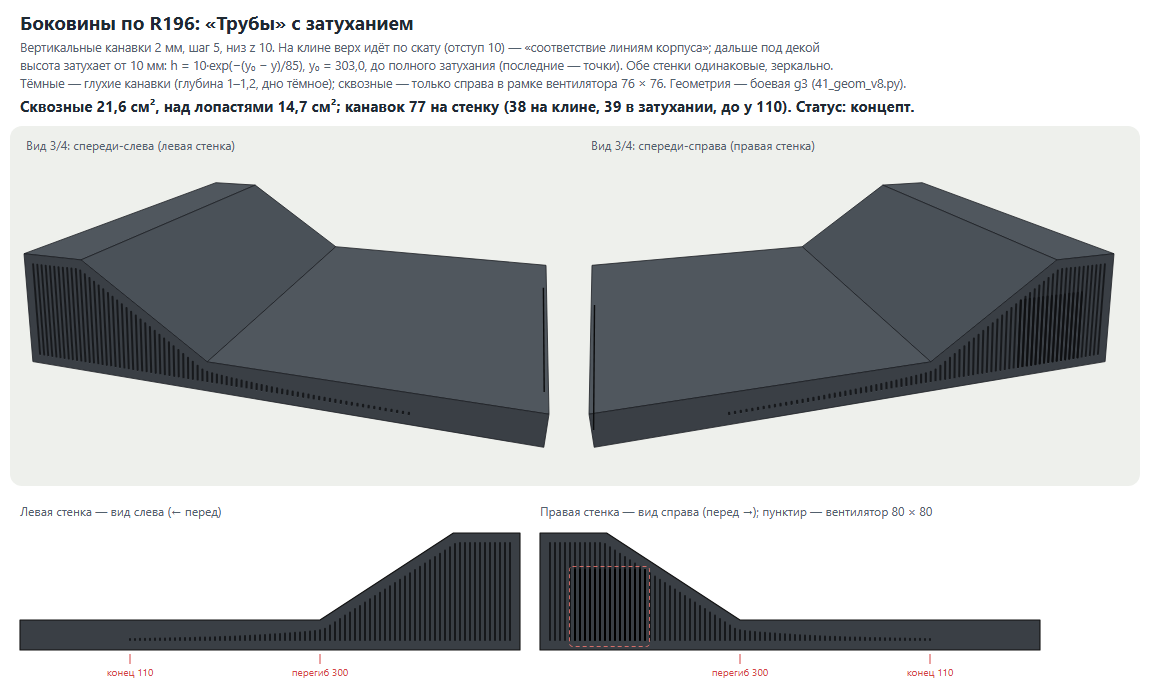
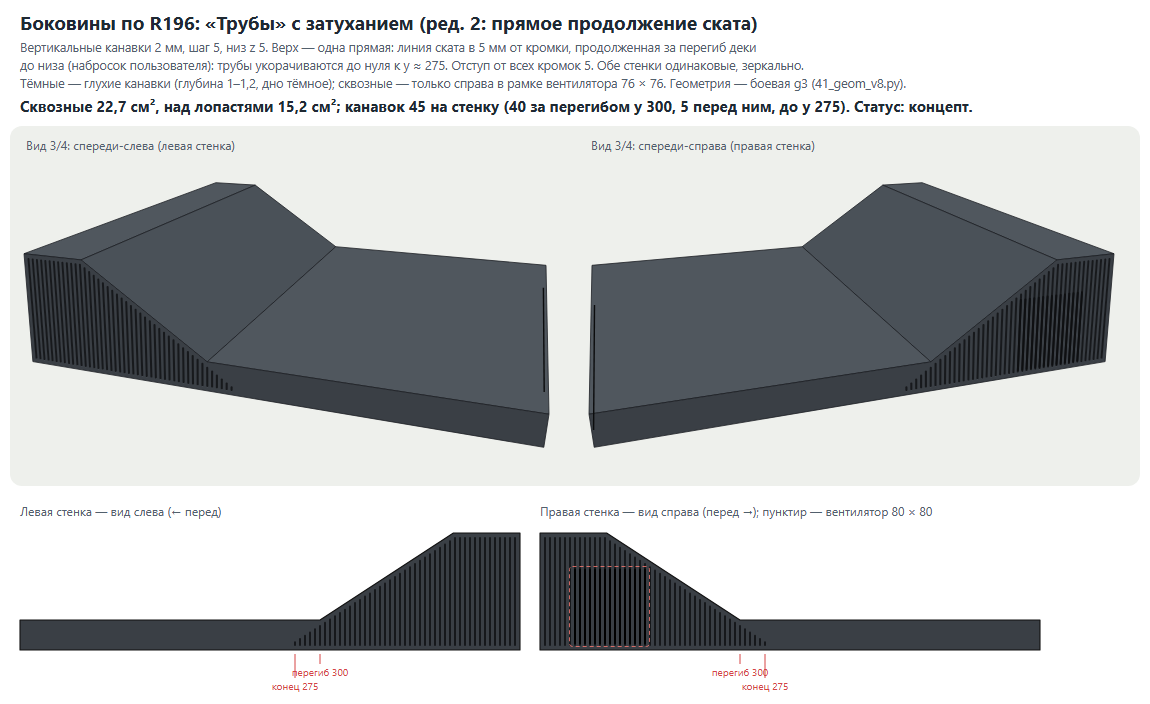
Doc 41 section 24.13 rev 2: pipe tops on one straight line continuing the slope to the bottom (user's sketch), 45 grooves, 22.7 cm2 through

diff --git a/docs/ru/img/41_sides_r196.py b/docs/ru/img/41_sides_r196.py
@@ -2,10 +2,9 @@
 """Doc 41 section 24.13: side walls by R196 (user, 20.11.2026): "Pipes, but with decay. That is, following the case lines,
 but continuing until full decay" = hybrid of K2 "Pipes" and K3 "Release" (24.12).
 
-Rule: vertical grooves 2 mm wide, pitch 5, bottoms on z 10 (inset 10 from the bottom edge).
-  - behind the deck fold (wedge): top = the slope edge inset 10 (K2: the bars follow the case lines), up to the crest inset;
-  - in front of the point where the inset slope meets the deck inset (z 20), the bars continue forward under the deck and their
-    height decays exponentially from 10 mm, h = 10 * exp(-(y_k - y) / TAU), until h < H_MIN (full decay: the last ones are dots).
+Rule (rev. 2, user's sketch on rev. 1, 20.11.2026: the slope line continued straight down to the bottom): vertical grooves
+2 mm wide, pitch 5, bottoms on z 5; tops on ONE straight line = the slope edge shifted 5 mm inward, continued past the deck fold
+until it meets the bottom margin, so the pipes shorten linearly to zero ("full decay"); 5 mm margin from all edges.
 Both walls identical (mirror); blind grooves 1-1.2 mm deep with a dark bottom; through-cuts only on the RIGHT wall inside the fan
 frame 76 x 76. Geometry: 41_geom_v8.py (production g3.build(30, 0, 117, 20, 0)).
 Views: top - 3/4 perspective (left wall from front-left, right wall from front-right); bottom - elevations: LEFT wall seen from
@@ -17,25 +16,25 @@ import importlib.util as _iu
 _s = _iu.spec_from_file_location("g41", os.path.join(HERE, "41_geom_v8.py")); G = _iu.module_from_spec(_s); _s.loader.exec_module(G)
 V2 = G.load("41_sides_v2")
 
-INS, PITCH, TAU, H_MIN = 10.0, 5.0, 85.0, 1.0
+M, PITCH, H_MIN = 5.0, 5.0, 1.0       # margin from every edge, groove pitch, shortest groove (a dot)
+
+
+def line(y):
+    """the design line: the slope edge shifted 5 mm inward (perpendicular), continued STRAIGHT past the deck fold (user's sketch)"""
+    return G.DECK + (y - G.FOLD_Y) * G.TAN - M / G.COS
 
 
 def y_knee():
-    """where the inset slope edge reaches the deck inset (z 20)"""
-    return G.FOLD_Y + (INS / G.COS - INS) / G.TAN    # 30 + (y - 300) tan - 10/cos = 20
+    """where the design line leaves the slope zone and enters the low deck strip (passes the fold)"""
+    return G.FOLD_Y
 
 
 def bars():
-    yk = y_knee()
-    segs, y = [], G.D - INS
-    while y > INS:
-        if y >= yk:
-            t = V2.top_inset(y)
-        else:
-            h = (G.DECK - 2 * INS) * math.exp(-(yk - y) / TAU)
-            if h < H_MIN: break
-            t = INS + max(h, 0.0)
-        segs.append(((y, INS), (y, t)))
+    segs, y = [], G.D - M
+    while y > M:
+        t = min(line(y), G.CREST - M, G.top(y) - M)
+        if t - M < H_MIN: break
+        segs.append(((y, M), (y, t)))
         y -= PITCH
     return segs
 
@@ -44,8 +43,8 @@ def dims(ox, oy, k, segs, right):
     T = lambda y, z: (ox + ((G.D - y) if right else y) * k, oy + (124 - z) * k)
     el = []
     yk, yend = y_knee(), segs[-1][0][0]
-    for y, lab in ((G.FOLD_Y, "перегиб 300"), (yend, f"конец {yend:.0f}".replace(".", ","))):
-        a, b = T(y, -4), T(y, -14)
+    for y, lab, dz in ((G.FOLD_Y, "перегиб 300", 0), (yend, f"конец {yend:.0f}".replace(".", ","), 14)):
+        a, b = T(y, -4), T(y, -14 - dz)
         el.append(f'<line x1="{a[0]:.1f}" y1="{a[1]:.1f}" x2="{b[0]:.1f}" y2="{b[1]:.1f}" stroke="#d64545"/>')
         el.append(f'<text x="{b[0]:.1f}" y="{b[1] + 12:.1f}" font-size="10" fill="#d64545" text-anchor="middle">{lab}</text>')
     return el
@@ -55,14 +54,14 @@ def main():
     segs = bars(); cuts = V2.through(segs); area = V2.measure(cuts)
     yk = y_knee(); yend = segs[-1][0][0]
     n_wedge = sum(1 for (a, b) in segs if a[0] >= yk)
-    print(f"bars {len(segs)} (wedge {n_wedge}, decay {len(segs) - n_wedge}), through {len(cuts)}, area {area}, knee y {yk:.1f}, last bar y {yend:.1f} h {segs[-1][1][1] - INS:.2f}")
+    print(f"bars {len(segs)} (wedge {n_wedge}, decay {len(segs) - n_wedge}), through {len(cuts)}, area {area}, knee y {yk:.1f}, last bar y {yend:.1f} h {segs[-1][1][1] - M:.2f}")
     Wd = 1150
     el = ['<rect width="100%" height="100%" fill="#fff"/>',
-          '<text x="20" y="30" font-size="19" font-weight="700" fill="#1f2933">Боковины по R196: «Трубы» с затуханием</text>',
-          '<text x="20" y="52" font-size="12.5" fill="#52606d">Вертикальные канавки 2 мм, шаг 5, низ z 10. На клине верх идёт по скату (отступ 10) — «соответствие линиям корпуса»; дальше под декой</text>',
-          f'<text x="20" y="70" font-size="12.5" fill="#52606d">высота затухает от 10 мм: h = 10·exp(−(y₀ − y)/{TAU:.0f}), y₀ = {str(round(yk, 1)).replace(".", ",")}, до полного затухания (последние — точки). Обе стенки одинаковые, зеркально.</text>',
+          '<text x="20" y="30" font-size="19" font-weight="700" fill="#1f2933">Боковины по R196: «Трубы» с затуханием (ред. 2: прямое продолжение ската)</text>',
+          '<text x="20" y="52" font-size="12.5" fill="#52606d">Вертикальные канавки 2 мм, шаг 5, низ z 5. Верх — одна прямая: линия ската в 5 мм от кромки, продолженная за перегиб деки</text>',
+          f'<text x="20" y="70" font-size="12.5" fill="#52606d">до низа (набросок пользователя): трубы укорачиваются до нуля к y ≈ {yend:.0f}. Отступ от всех кромок 5. Обе стенки одинаковые, зеркально.</text>',
           '<text x="20" y="88" font-size="12.5" fill="#52606d">Тёмные — глухие канавки (глубина 1–1,2, дно тёмное); сквозные — только справа в рамке вентилятора 76 × 76. Геометрия — боевая g3 (41_geom_v8.py).</text>',
-          f'<text x="20" y="112" font-size="15" font-weight="700" fill="#1f2933">Сквозные {str(area[0]).replace(".", ",")} см², над лопастями {str(area[1]).replace(".", ",")} см²; канавок {len(segs)} на стенку ({n_wedge} на клине, {len(segs) - n_wedge} в затухании, до y {yend:.0f}). Статус: концепт.</text>']
+          f'<text x="20" y="112" font-size="15" font-weight="700" fill="#1f2933">Сквозные {str(area[0]).replace(".", ",")} см², над лопастями {str(area[1]).replace(".", ",")} см²; канавок {len(segs)} на стенку ({n_wedge} за перегибом y 300, {len(segs) - n_wedge} перед ним, до y {yend:.0f}). Статус: концепт.</text>']
     CW, CH = 565, 360
     el.append(f'<rect x="10" y="126" width="{Wd - 20}" height="{CH}" rx="12" fill="#eef0ec"/>')
     el.append('<text x="26" y="150" font-size="12" fill="#52606d">Вид 3/4: спереди-слева (левая стенка)</text>')
@@ -74,7 +73,7 @@ def main():
     el.append(f'<text x="{40 + G.D}" y="{oy}" font-size="12" fill="#52606d">Правая стенка — вид справа (перед →); пунктир — вентилятор 80 × 80</text>')
     el += V2.elev(20, oy + 10, 1.0, False, segs, cuts) + dims(20, oy + 10, 1.0, segs, False)
     el += V2.elev(40 + G.D, oy + 10, 1.0, True, segs, cuts) + dims(40 + G.D, oy + 10, 1.0, segs, True)
-    H = int(oy + 10 + 124 + 40)
+    H = int(oy + 10 + 124 + 54)
     open(os.path.join(HERE, "41_sides_r196.svg"), "w", encoding="utf-8").write(
         f'<svg xmlns="http://www.w3.org/2000/svg" viewBox="0 0 {Wd} {H}" width="{Wd}" height="{H}" font-family="Segoe UI, Arial, sans-serif">' + "".join(el) + "</svg>")
     with open(os.path.join(HERE, "41_sides_r196.csv"), "w", encoding="utf-8") as f:

diff --git a/docs/ru/41_design_review/40_24-13-bokoviny-r196-truby-s-zatuhaniem.md b/docs/ru/41_design_review/40_24-13-bokoviny-r196-truby-s-zatuhaniem.md
@@ -1,20 +1,20 @@
-> Часть документа 41 ([индекс](../41_design_review.md)): 24.13 Боковины по R196: «Трубы» с затуханием (гибрид K2 + K3)
+> Часть документа 41 ([индекс](../41_design_review.md)): 24.13 Боковины по R196: «Трубы» с затуханием (гибрид K2 + K3), ред. 2
 
-### 24.13 Боковины по R196: «Трубы» с затуханием (дизайнер, 20.11.2026)
+### 24.13 Боковины по R196: «Трубы» с затуханием (дизайнер, 20.11.2026, ред. 2)
 
-**Основание.** R196 (пользователь, 20.11.2026): «Трубы, но с затуханием. То есть соответствие линиям корпуса, но с продолжением до полного затухания» — гибрид K2 и K3 из 24.12. Условие R195 / док. 42 §6: сквозной выход ≥ 17–21 см² только справа у вентилятора; R185: слева сквозных отверстий нет. **Статус: выбран пользователем вид (R196); геометрия — предложение дизайнера**, продувка, прочность и оснастка не проверены.
+**Основание.** R196 (пользователь, 20.11.2026): «Трубы, но с затуханием. То есть соответствие линиям корпуса, но с продолжением до полного затухания». Затем пользователь провёл поверх ред. 1 штрих: **линия ската продолжается прямо, через перегиб деки, до низа стенки**. Ред. 1 (экспоненциальный хвост под декой до y 110) этим заменена (история в git). Условие R195 / док. 42 §6: сквозной выход ≥ 17–21 см² только справа; R185: слева сквозных нет. **Статус: вид выбран пользователем (R196 + набросок); числа — предложение дизайнера**; продувка, прочность, оснастка не проверены.
 
-**Рисунок:** [`img/41_sides_r196.png`](../img/41_sides_r196.png) ([svg](../img/41_sides_r196.svg), [`41_sides_r196.py`](../img/41_sides_r196.py), координаты каждой канавки [`41_sides_r196.csv`](../img/41_sides_r196.csv)). Вверху **перспектива 3/4**: корпус спереди-слева (левая стенка) и спереди-справа (правая). Внизу **фасады**: левая стенка — вид слева (перед слева), правая — вид справа (перед справа), зеркальные; y — глубина от переднего края, z — от низа, мм, 1 px = 1 мм. Геометрия — боевая g3 (`41_geom_v8.py`: глубина 500, скат 33,1° y 300–433,4, макушка 117; вентилятор y 390,5–470,5, z 3,5–83,5).
+**Рисунок:** [`img/41_sides_r196.png`](../img/41_sides_r196.png) ([svg](../img/41_sides_r196.svg), [`41_sides_r196.py`](../img/41_sides_r196.py), координаты канавок [`41_sides_r196.csv`](../img/41_sides_r196.csv)). Вверху **перспектива 3/4**: корпус спереди-слева (левая стенка) и спереди-справа (правая). Внизу **фасады**: левая стенка — вид слева (перед слева), правая — вид справа (перед справа), зеркальные; y — глубина от переднего края, z — от низа, мм, 1 px = 1 мм. Геометрия — боевая g3 (`41_geom_v8.py`: глубина 500, скат 33,1° y 300–433,4, макушка 117; вентилятор y 390,5–470,5, z 3,5–83,5).
 
 **Правило рисунка (обе стенки одинаково):**
-- Вертикальные канавки 2 мм, шаг 5 мм, концы скруглены; низ всех канавок на z 10 (отступ 10 от низа); первая сзади на y 490.
-- **На клине** (y ≥ 303,0) верх канавки идёт по скату с отступом 10 мм, у макушки — z 107: «трубы» повторяют линию корпуса. 38 канавок.
-- **Затухание.** От y₀ = 303,0 (где отступ от ската встречает отступ от деки, z 20) канавки продолжаются вперёд под декой, высота падает от 10 мм по закону h = 10 · exp(−(303 − y) / 85). Ряд кончается, когда h < 1 мм: последняя канавка на y 110 (h ≈ 1,0 мм — точка). 39 канавок. Переход на перегибе плавный, высота там 10 и с той, и с другой стороны.
-- Всего 77 канавок на стенку. Глухие, глубина 1–1,2 мм в стенке 3 мм, **дно тёмное** в тон сетке за сквозными прорезями.
-- **Сквозные — только правая стенка**, 15 отрезков канавок внутри рамки вентилятора 76 × 76 (y 392,5–468,5, z 5,5–81,5): **21,6 см²**, над лопастями 14,7 см² (кольцо r 17–39 — оценка, сверить с паспортом NF-A8). Если продувка покажет мало: шаг 4 только в рамке (≈ +25 % площади, оценка по 24.11), рисунок снаружи не меняется.
+- Вертикальные канавки 2 мм, шаг 5 мм, концы скруглены; **отступ 5 мм от всех кромок**: низ канавок z 5, первая сзади на y 495, верх у макушки z 112.
+- **Верх всех канавок — одна прямая**: кромка ската, сдвинутая внутрь на 5 мм (по нормали), продолженная за перегиб деки (y 300) с тем же углом 33,1°, пока не встретит нижний отступ. Трубы укорачиваются линейно до нуля — «полное затухание»; последняя канавка на **y 275** (высота ≈ 2,7 мм), следующая была бы < 1 мм. Продолженная кромка ската пересекает низ корпуса на y ≈ 254 — рисунок кончается чуть раньше, с тем же отступом.
+- 45 канавок на стенку: 40 за перегибом, 5 — короткий хвост под декой (y 275–295).
+- Глухие, глубина 1–1,2 мм в стенке 3 мм, **дно тёмное** в тон сетке за сквозными прорезями.
+- **Сквозные — только правая стенка**, 15 отрезков в рамке вентилятора 76 × 76 (y 392,5–468,5, z 5,5–81,5): **22,7 см²**, над лопастями 15,2 см² (кольцо r 17–39 — оценка, сверить с паспортом NF-A8). Запас при нехватке: шаг 4 только в рамке (≈ +25 %, оценка по 24.11).
 
-**Как читается.** Клин сбоку как ряд органных труб по линии ската; к переду трубы стихают до точек, как затухающий звук — рисунок «звучит» и уходит в деку, вентилятор в нём не виден. На затухании канавки короткие (1–10 мм) — их снимать с формы и чистить проще, чем длинные; пыль в коротких лунках под декой — проверить на макете.
+**Как читается.** Трубы стоят строго по силуэту, и их вершины рисуют одну чистую диагональ, которая не обрывается на перегибе, а уходит в деку и гаснет у низа — корпус выглядит одним движением. Хвост короткий и острый (5 канавок), без «точек» под всей декой: меньше пыли и шума на виде.
 
-**Параметры для настройки (решает инженер вместе с дизайнером, вид не меняется):** шаг 4–5; τ 70–100 мм (конец затухания y ≈ 80–130); отступ 8–10; глубина канавок 1–1,2.
+**Настройка (вид не меняется, решают инженер и дизайнер):** шаг 4–5, отступ 4–6 мм, глубина канавок 1–1,2.
 
-**Передача инженеру.** Цель: обе стенки по правилу выше, выход ≥ 17–21 см² справа. Зафиксировал пользователь: R196 (вид), R195, R185. Предложение дизайнера: числа выше. **Проверки:** (1) прочность стенки 3 мм с 77 канавками 1–1,2 мм и способ изготовления; (2) в g3 добавить канавки (CSV) и сквозные 15 отрезков у вентилятора вместо 13 горизонтальных линий R195; (3) поток по док. 42 §6 для 21,6 см², затем продувка; (4) других вырезов на стенках под канавками нет.
+**Передача инженеру.** Цель: обе стенки по правилу выше, выход ≥ 17–21 см² справа. Зафиксировал пользователь: R196, набросок «прямое продолжение ската», R195, R185. **Проверки:** (1) прочность стенки 3 мм с 45 канавками и способ изготовления; (2) в g3 добавить канавки по CSV и 15 сквозных отрезков у вентилятора вместо 13 горизонтальных линий R195; (3) поток по док. 42 §6 для 22,7 см², затем продувка; (4) других вырезов на стенках под канавками нет; (5) нижний отступ 5 мм: канавки над ножками 3 мм — край стенки не ослабить.

diff --git a/docs/ru/41_design_review.md b/docs/ru/41_design_review.md
@@ -25,6 +25,6 @@
 | [37_24-10-bokovye-stenki-odin-risunok](41_design_review/37_24-10-bokovye-stenki-odin-risunok.md) | 24.10 Боковые стенки: один рисунок с двух сторон, выход вентилятора — его сквозная часть (S1–S3) | 3.9 |
 | [38_24-11-shtrihovka-po-skatu-s4](41_design_review/38_24-11-shtrihovka-po-skatu-s4.md) | 24.11 S4: штриховка по скату на обеих стенках, сквозная только над вентилятором (набросок пользователя) | 3.2 |
 | [39_24-12-bokoviny-tri-koncepta](41_design_review/39_24-12-bokoviny-tri-koncepta.md) | 24.12 Боковины одним рисунком: K1 «Парус», K2 «Трубы», K3 «Затухание», вид 3/4 | 3.7 |
-| [40_24-13-bokoviny-r196-truby-s-zatuhaniem](41_design_review/40_24-13-bokoviny-r196-truby-s-zatuhaniem.md) | 24.13 Боковины по R196: «Трубы» с затуханием (гибрид K2 + K3), вид 3/4 и фасады | 3.2 |
+| [40_24-13-bokoviny-r196-truby-s-zatuhaniem](41_design_review/40_24-13-bokoviny-r196-truby-s-zatuhaniem.md) | 24.13 Боковины по R196: «Трубы» с затуханием (гибрид K2 + K3), ред. 2: прямое продолжение ската | 3.3 |
 
 Полная версия до сжатия: история git.
